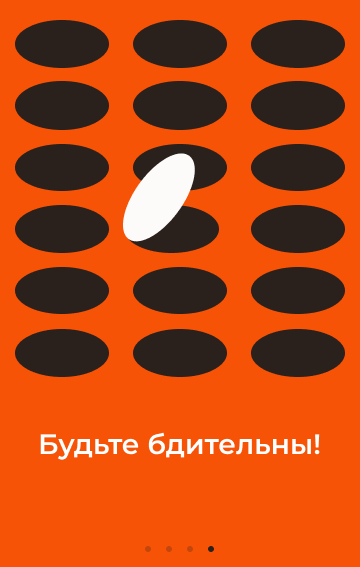
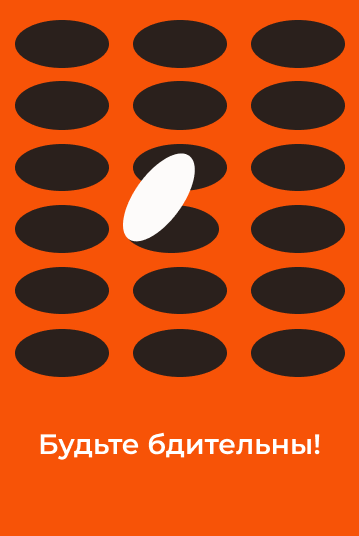
comment

diff --git a/lyuk-alert/src/Components/body/slider/slider.jsx b/lyuk-alert/src/Components/body/slider/slider.jsx
@@ -1,35 +1,48 @@
-
-import React, { useState } from 'react';
+import React, { useState, useEffect } from 'react';
 import PageOne from './pages/pageone';
 import PageTwo from './pages/pagetwo';
 import PageThree from './pages/pagethree';
 import PageFour from './pages/pagefour';
+import './slider.scss';
 
 
-const pages = [<PageOne />, <PageTwo />, <PageThree />, <PageFour/>];
 
 const Slider = () => {
-  const [currentIndex, setCurrentIndex] = useState(0);
+    const [currentPage, setCurrentPage] = useState(0);
+    
+    const pages = [
+        <PageOne />,
+        <PageTwo />,
+        <PageThree />,
+        <PageFour/>
+        
+    ];
 
-  const nextSlide = () => {
-    setCurrentIndex((prevIndex) => (prevIndex + 1) % pages.length);
-  };
+  //   useEffect(() => {
+  //     const interval = setInterval(() => {
+  //         setCurrentPage((prevPage) => (prevPage + 1) % pages.length);
+  //     }, 10000); // Период переключения в миллисекундах (10 секунд)
 
-  const prevSlide = () => {
-    setCurrentIndex((prevIndex) => 
-      (prevIndex - 1 + pages.length) % pages.length
-    );
-  };
+  //     return () => clearInterval(interval); // Очистка интервала при размонтировании
+  // }, [pages.length]);
 
   return (
-    <div className="slider">
-      <button onClick={prevSlide} className="slider-button">Prev</button>
-      <div className="slider-content">
-        {pages[currentIndex]}
+    <div className={`slider ${currentPage === 0  || currentPage === 3 ? 'orange-background' : ''}`}>
+          <div className="slider-content">
+              {pages[currentPage]}
+          </div>
+          <div className="dots">
+              {pages.map((_, index) => (
+                  <span 
+                      key={index} 
+                      className={`dot ${currentPage === index ? 'active' : ''}`} 
+                      onClick={() => setCurrentPage(index)} 
+                  />
+              ))}
+          </div>
       </div>
-      <button onClick={nextSlide} className="slider-button">Next</button>
-    </div>
   );
 };
 
 export default Slider;
+

diff --git a/lyuk-alert/src/Components/body/slider/pages/pageone.jsx b/lyuk-alert/src/Components/body/slider/pages/pageone.jsx
@@ -1,14 +1,15 @@
 import React from "react";
 import Lukebanner from "./lukebanner.png";
 import  Send from './send.png';
+import './pages.sccs/pageone.scss';
 
 const PageOne = () => {
     return(
         <div className="banner">
-            <h1>Оcторожно ЛЮК -</h1>
-            <p>проект, который помогает предотвращать опасности и спасать жизни, обнаруживая и закрывая открытые люки.</p>
-            <img src={Lukebanner}></img>
-            <button> Подробнее о проекте <img src={Send}></img> </button>
+            <h1  className="banner_title">Оcторожно ЛЮК -</h1>
+            <p className="banner_text">проект, который помогает предотвращать опасности и спасать жизни, обнаруживая и закрывая открытые люки.</p>
+            <img src={Lukebanner} className="banner_img"></img>
+            <button className="banner_btn"> Подробнее о проекте <img src={Send}></img> </button>
         </div>
     )
 }

diff --git a/lyuk-alert/src/Components/Buttons/DropdownButton/ExitButton.jsx b/lyuk-alert/src/Components/Buttons/DropdownButton/ExitButton.jsx
@@ -1,9 +1,10 @@
 import Button from "../Button/Button";
+import style from "../../Buttons/Button/Button.module.scss"
 
-export default function exitbutton () {
+export default function ExitButton({ name }) {
     <Button>
-    <svg width="45" height="45" viewBox="0 0 45 45" fill="none" xmlns="http://www.w3.org/2000/svg">
-<rect width="45" height="45" rx="22.5" fill="#FCFBFA"/>
+   <svg width="45" height="45" viewBox="0 0 45 45" fill="none" xmlns="http://www.w3.org/2000/svg">
+<rect className={style.rect} width="45" height="45" rx="22.5" fill="#FCFBFA"/>
 <mask id="mask0_2483_14112" style="mask-type:alpha" maskUnits="userSpaceOnUse" x="7" y="7" width="31" height="31">
 <rect x="7.5" y="7.5" width="30" height="30" fill="#D9D9D9"/>
 </mask>
@@ -11,6 +12,7 @@ export default function exitbutton () {
 <path d="M15.5008 30.817L14.1836 29.4998L21.1836 22.4998L14.1836 15.4998L15.5008 14.1826L22.5008 21.1826L29.5008 14.1826L30.818 15.4998L23.818 22.4998L30.818 29.4998L29.5008 30.817L22.5008 23.817L15.5008 30.817Z" fill="#F75307"/>
 </g>
 </svg>
+
 </Button>
 
 }

diff --git a/lyuk-alert/src/Components/body/slider/pages/pages.sccs/pageone.scss b/lyuk-alert/src/Components/body/slider/pages/pages.sccs/pageone.scss
@@ -1,0 +1,54 @@
+.banner{
+    display: flex;
+    flex-direction: column;
+    gap: 20px;
+    align-items: center;
+    padding-left: 10px;
+    padding-right: 10px;
+    padding-top: 52px;
+}
+.banner_title{
+width: 318px;
+height: 40px;
+left: 16px;
+top: 52px;
+font-family: 'Montserrat';
+font-style: normal;
+font-weight: 700;
+font-size: 32px;
+line-height: 125%;
+color: #FCFBFA;
+}
+.banner_text{
+
+left: 4.44%;
+right: 8.89%;
+top: 18.87%;
+bottom: 67.02%;
+font-family: 'Montserrat';
+font-style: normal;
+font-weight: 400;
+font-size: 16px;
+line-height: 125%;
+color: #FCFBFA;
+
+}
+.banner_img{
+width: 359px;
+height: 140.44px;
+top: 227.56px;
+left: 128px;
+
+}
+.banner_btn{
+    display: flex;
+    padding: 18px 20px;
+    width: 328px;
+    height: 60px;
+    left: 16px;
+    top: 418px;
+    background: #FCFBFA;
+    border-radius: 40px;
+    justify-content: center;
+    gap: 15px;
+}

diff --git a/lyuk-alert/src/Components/body/slider/pages/pagethree.jsx b/lyuk-alert/src/Components/body/slider/pages/pagethree.jsx
@@ -1,14 +1,14 @@
 import React from "react";
 import girl from "./girl.png";
 import  Send from './send.png';
-
+import './pages.sccs/pagethree.scss';
 const PageThree = () => {
     return(
-        <div className="banner">
-            <img src={girl}/>
-            <h2>Открытые люки</h2>
-           <p>влияние на безопасность детей и животных </p>
-            <button> Читать статью <img src={Send}></img> </button>
+        <div className="pagethree">
+            <img src={girl} className="page_girl"/>
+            <h2 className="page_title">Открытые люки</h2>
+           <p  className="page_text">влияние на безопасность детей и животных </p>
+            <button className="page_btn"> Читать статью <img src={Send}></img> </button>
         </div>
     )
 }

diff --git a/lyuk-alert/src/Components/body/slider/pages/pages.sccs/pagethree.scss b/lyuk-alert/src/Components/body/slider/pages/pages.sccs/pagethree.scss
@@ -1,0 +1,54 @@
+.pagethree{
+    display: flex;
+    flex-direction: column;
+    gap: 20px;
+    align-items: center;
+}
+.page_girl{
+    width: 100%;
+}
+.page_title{
+
+width: 285px;
+height: 37px;
+left: 16px;
+top: 321px;
+
+font-family: 'Montserrat';
+font-style: normal;
+font-weight: 700;
+font-size: 30px;
+line-height: 37px;
+color: #F75307;
+
+
+}
+.page_text{
+    width: 272px;
+    height: 44px;
+    left: 16px;
+    top: 366px;
+    
+    font-family: 'Montserrat';
+    font-style: normal;
+    font-weight: 500;
+    font-size: 18px;
+    line-height: 22px;
+
+    color: #2A201C;
+    }
+.page_btn{
+display: flex;
+align-items: flex-start;
+gap: 10px;
+padding: 16px 52px;
+width: 328px;
+height: 56px;
+color: #fff;
+background: #3A3A40;
+border-radius: 40px;
+flex: none;
+order: 0;
+flex-grow: 0;
+justify-content: center;
+}

diff --git a/lyuk-alert/src/Components/body/slider/pages/pagetwo.jsx b/lyuk-alert/src/Components/body/slider/pages/pagetwo.jsx
@@ -1,14 +1,15 @@
 import React from "react";
 import Logo from "../../../Logo";
-import chat from "./chat_bubble.png"
+import chat from "./chat_bubble.png";
+import './pages.sccs/pagetwo.scss'
 
 
 const PageTwo = () => {
     return(
         <div className="PageTwo">
             <Logo name="logo-main-black"/>
-            <p>Проблема, у которой есть решение </p>
-            <button> <img src={chat}/> Сообщить об открытом люке </button>
+            <p className="pagetwo_text">Проблема, у которой есть <span className="spantext">решение</span> </p>
+            <button className="pagetwo_btn"> <img src={chat}/> Сообщить об открытом люке </button>
         </div>
     )
 }

diff --git a/lyuk-alert/src/Components/body/slider/slider.scss b/lyuk-alert/src/Components/body/slider/slider.scss
@@ -1,0 +1,30 @@
+
+.slider {
+    position: relative;
+    
+    &.orange-background {
+        background-color: #F86C2B; // Оранжевый фон для первого и третьего слайда
+    }
+}
+.slider-content{
+height: 567px;
+}
+.dots {
+    display: flex;
+    justify-content: center;
+    padding-bottom: 10px;
+}
+
+.dot {
+    height: 10px;
+    width: 10px;
+    margin: 0 5px;
+    border-radius: 50%;
+    background-color: gray; /* Серый цвет для неактивных точек */
+    cursor: pointer;
+    transition: background-color 0.3s;
+}
+
+.dot.active {
+    background-color: black; /* Черный цвет для активной точки */
+}

diff --git a/lyuk-alert/src/Components/Header/Dropdown/DropdownHeader.jsx b/lyuk-alert/src/Components/Header/Dropdown/DropdownHeader.jsx
@@ -1,13 +1,14 @@
 import Logo from "../../Logo";
-import style from "../Header.module.scss";
+import './dropdownHeader.scss';
+// import style from "./dropdownHeader.scss";
 import Exitbutton from "../../Buttons/DropdownButton/ExitButton";
  import { Link } from "react-router-dom";
 
 export default function HeaderDropdown (){
 
   return (
-    <div className={style.header + " " + "container" }>
-      <Logo name="logo-white"/>
+    <div className="headerDrop" >
+      <Logo name="logo-main-white"/>
       <Link to={"/"}>
       <Exitbutton/>
       </Link>

diff --git a/lyuk-alert/src/App.jsx b/lyuk-alert/src/App.jsx
@@ -1,4 +1,4 @@
-import Header from "./Components/Header/Header";
+
 import Footer from "./Components/Footer/Footer";
 import  Mainpage from "./Components/body/body";
 import Dropdown from "./Components/Header/Dropdown/Dropdown";
@@ -7,7 +7,6 @@ import {   Route, Routes} from 'react-router-dom';
 export default function App() {
   return (
     <div>
-      <Header/>
       <Routes>
         <Route path='/' element={<Mainpage/>}/>
         <Route path='/Dropdown' element={<Dropdown/>}/>

diff --git a/lyuk-alert/src/Components/body/slider/pages/pages.sccs/pagetwo.scss b/lyuk-alert/src/Components/body/slider/pages/pages.sccs/pagetwo.scss
@@ -1,0 +1,30 @@
+.spantext{
+    color: #F86C2B;
+}
+.PageTwo{
+    display: flex;
+    flex-direction: column;
+    gap: 20px;
+    align-items: center;
+    padding-left: 10px;
+    padding-right: 10px;
+    padding-top: 52px;
+}
+.pagetwo_btn{
+display: flex;
+flex-direction: column;
+justify-content: center;
+align-items: center;
+padding: 24px;
+color: #fff;
+width: 275px;
+height: 275px;
+
+background: #F75307;
+border-radius: 1000px;
+
+flex: none;
+order: 0;
+flex-grow: 1;
+
+}

diff --git a/lyuk-alert/src/Components/body/slider/pages/pagefour.jsx b/lyuk-alert/src/Components/body/slider/pages/pagefour.jsx
@@ -1,9 +1,10 @@
-import four from "./pagefour.png"
+import four from "./pagefour.png";
+import './pages.sccs/pagefour.scss'
 
 const PageFour = () => {
     return(
        <>
-       <img src={four}/>
+       <img src={four} className="lukes"/>
         </>
     )
 }
